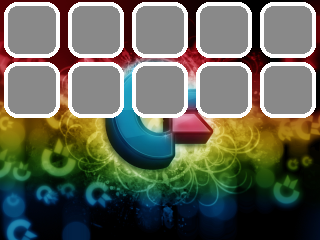
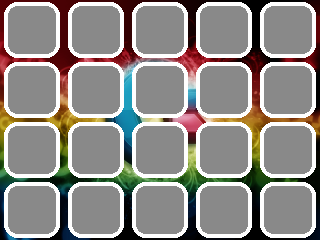
button to show / hide kbd, more soft buttons below kbd

diff --git a/source/arch/sdl/uibottom.c b/source/arch/sdl/uibottom.c
@@ -50,7 +50,7 @@ int uikbd_pos[4][4] = {
 };
 
 uikbd_key uikbd_keypos[] = {
-//	{   1,  1,  30,  20, 255,   0,   0,   0,  0,  "ToggleKB"},  // deactivated right now - must be 255
+	{   0,-10,  36,  10, 255,   0,   0,   0,  0,  "ToggleKB"},
 	//  x,  y,   w,   h, key, row, col, sticky, flags, name
 	// soft buttons
 	{   0,  0,  64,  60, 231,   0,   0,   0,  1,  "SButton1"},
@@ -63,6 +63,16 @@ uikbd_key uikbd_keypos[] = {
 	{ 128, 60,  64,  60, 238,   0,   0,   0,  1,  "SButton8"},
 	{ 192, 60,  64,  60, 239,   0,   0,   0,  1,  "SButton9"},
 	{ 256, 60,  64,  60, 240,   0,   0,   0,  1,  "SButton10"},
+	{   0,120,  64,  60, 241,   0,   0,   0,  1,  "SButton11"},
+	{  64,120,  64,  60, 242,   0,   0,   0,  1,  "SButton12"},
+	{ 128,120,  64,  60, 243,   0,   0,   0,  1,  "SButton13"},
+	{ 192,120,  64,  60, 244,   0,   0,   0,  1,  "SButton14"},
+	{ 256,120,  64,  60, 245,   0,   0,   0,  1,  "SButton15"},
+	{   0,180,  64,  60, 246,   0,   0,   0,  1,  "SButton16"},
+	{  64,180,  64,  60, 247,   0,   0,   0,  1,  "SButton17"},
+	{ 128,180,  64,  60, 248,   0,   0,   0,  1,  "SButton18"},
+	{ 192,180,  64,  60, 249,   0,   0,   0,  1,  "SButton19"},
+	{ 256,180,  64,  60, 250,   0,   0,   0,  1,  "SButton20"},
 	// F-Keys
 	{  81,  1,  30,  20, 133,   0,   4,   0,  0,  "F1"}, // F1
 	{ 111,  1,  30,  20, 137,   0,   4,   0,  0,  "F2"}, // F2
@@ -159,6 +169,9 @@ int uibottom_must_update_key = -1;
 static SDL_Surface *vice_img=NULL;
 static SDL_Surface *kbd_img=NULL;
 static SDL_Surface *calcsb_img=NULL;
+static SDL_Surface *twistyup_img=NULL;
+static SDL_Surface *twistydn_img=NULL;
+
 static int kb_x_pos = 0;
 static int kb_y_pos = 0;
 static int set_kb_y_pos = -10000;
@@ -180,7 +193,7 @@ static void pressKey(int key, int press) {
 	int x,y,w,h;
 
 	if (uikbd_keypos[key].flags==0) {
-		// negative the key for keyboard keys
+		// keyboard key - negative the key
 		x=uikbd_keypos[key].x + kb_x_pos;
 		y=uikbd_keypos[key].y + kb_y_pos;
 		w=uikbd_keypos[key].w;
@@ -196,11 +209,13 @@ static void pressKey(int key, int press) {
 			}
 		}
 	} else {
-		// blit the mask image or background image onto the screen
+		// soft button - blit the mask image or background image onto the screen
 		x=uikbd_keypos[key].x + bs_x_pos;
 		y=uikbd_keypos[key].y + bs_y_pos;
 		w=sbmask->w;
 		h=sbmask->h;
+		// set a clipping rectangle to exlude the keyboard
+		SDL_SetClipRect(s, &(SDL_Rect){.x = bs_x_pos, .y=bs_y_pos, .w=320, .h=kb_y_pos-240});
 		if (press) {
 			// blit the mask image
 			SDL_BlitSurface(sbmask, NULL, s, &(SDL_Rect){
@@ -210,6 +225,7 @@ static void pressKey(int key, int press) {
 			// blit the background + icon
 			sbutton_repaint(key);
 		}
+		SDL_SetClipRect(s, NULL);
 	}
 	if (!lock_updates && (sdl_menu_state || ui_emulation_is_paused())) SDL_UpdateRect(s, x,y,w,h);
 }
@@ -390,14 +406,12 @@ static void sbutton_update(int i) {
 // paint sbutton to screen - if i==-1 then repaint all
 static void sbutton_repaint(int i) {
 	// blit background image part
-//	SDL_SetClipRect(sdl_active_canvas->screen, &(SDL_Rect){.x = bs_x_pos, .y=bs_y_pos, .w=320, .h=480-kb_y_pos});
 	SDL_BlitSurface(calcsb_img,
 		i == -1 ? NULL : &(SDL_Rect){.x = uikbd_keypos[i].x, .y=uikbd_keypos[i].y, .w=uikbd_keypos[i].w, .h=uikbd_keypos[i].h},
 		sdl_active_canvas->screen,
 		&(SDL_Rect){
 			.x = bs_x_pos + (i==-1?0:uikbd_keypos[i].x),
 			.y = bs_y_pos + (i==-1?0:uikbd_keypos[i].y)});
-//	SDL_SetClipRect(sdl_active_canvas->screen, NULL);
 }
 
 // init calcsb_img and update all soft buttons 
@@ -410,6 +424,18 @@ static void sbuttons_recalc() {
 	}
 }
 
+// paint the right twisty at the right place
+void paint_twisty() {
+	SDL_BlitSurface(
+		kb_y_pos >= 480 ? twistyup_img: twistydn_img,
+		NULL,
+		sdl_active_canvas->screen,
+		&(SDL_Rect){
+			.x = kb_x_pos,
+			.y = kb_y_pos - twistyup_img->h}
+	);
+}
+
 // init bottom
 static int uibottom_isinit=0;
 static void uibottom_init() {
@@ -420,6 +446,8 @@ static void uibottom_init() {
 	sbmask=IMG_Load("romfs:/sbmask.png");
 	vice_img = IMG_Load("romfs:/vice.png");
 	kbd_img = IMG_Load("romfs:/keyboard.png");
+	twistyup_img = IMG_Load("romfs:/kbd_twistyup.png");
+	twistydn_img = IMG_Load("romfs:/kbd_twistydn.png");
 
 	// calc global vars
 	kb_x_pos = (s->w - uikbd_pos[0][2]) / 2;
@@ -477,6 +505,9 @@ void sdl_uibottom_draw(void)
 		updateKeys();
 		lock_updates=0;
 
+		// paint the twisty
+		paint_twisty();
+
 		// update screen
 		if (sdl_menu_state || ui_emulation_is_paused()) SDL_UpdateRect(s, bs_x_pos, bs_y_pos, 320, 240);
 
@@ -484,6 +515,9 @@ void sdl_uibottom_draw(void)
 
 	} else if (uibottom_must_update_key != -1) {
 		updateKey(uibottom_must_update_key);
+		if (uikbd_keypos[uibottom_must_update_key].flags == 1) {
+			paint_twisty();
+		}
 		uibottom_must_update_key=-1;
 	}
 	uistatusbar_draw();
@@ -512,15 +546,25 @@ int sdl_uibottom_mouseevent(SDL_Event *e) {
 				return 0; // do not further process the event
 			}
 			for (i = 0; uikbd_keypos[i].key != 0 ; ++i) {
-				if (x >= uikbd_keypos[i].x + kb_x_pos &&
-					x <  uikbd_keypos[i].x + uikbd_keypos[i].w + kb_x_pos &&
-					y >= uikbd_keypos[i].y + (uikbd_keypos[i].flags==0?kb_y_pos:bs_y_pos) &&
-					y <  uikbd_keypos[i].y + uikbd_keypos[i].h + (uikbd_keypos[i].flags==0?kb_y_pos:bs_y_pos)) break;
+				if (uikbd_keypos[i].flags == 1) {
+					// soft button
+					if (y >= kb_y_pos) continue; // ignore soft buttons below keyboard
+					if (x >= uikbd_keypos[i].x + bs_x_pos &&
+						x <  uikbd_keypos[i].x + uikbd_keypos[i].w + bs_x_pos &&
+						y >= uikbd_keypos[i].y + bs_y_pos &&
+						y <  uikbd_keypos[i].y + uikbd_keypos[i].h + bs_y_pos) break;
+				} else {
+					// keyboard button
+					if (x >= uikbd_keypos[i].x + kb_x_pos &&
+						x <  uikbd_keypos[i].x + uikbd_keypos[i].w + kb_x_pos &&
+						y >= uikbd_keypos[i].y + kb_y_pos &&
+						y <  uikbd_keypos[i].y + uikbd_keypos[i].h + kb_y_pos) break;
+				}
 			}
 			kb_activekey=i;
 		}
 		if (i != -1 && uikbd_keypos[i].key != 0) { // got a hit
-			if ((f=uikbd_keypos[i].sticky)>0) {	// sticky key!!
+			if ((f=uikbd_keypos[i].sticky)>0) {	// ... on a sticky key
 				if (e->button.type == SDL_MOUSEBUTTONDOWN) {
 					sticky = sticky ^ uikbd_keypos[i].sticky;
 					sdl_e.type = sticky & uikbd_keypos[i].sticky ? SDL_KEYDOWN : SDL_KEYUP;
@@ -528,13 +572,19 @@ int sdl_uibottom_mouseevent(SDL_Event *e) {
 					SDL_PushEvent(&sdl_e);
 					uibottom_must_redraw |= UIB_RECALC_KEYBOARD;
 				}
-			} else {
+			} else { // ... on a normal key
 				sdl_e.type = e->button.type == SDL_MOUSEBUTTONDOWN ? SDL_KEYDOWN : SDL_KEYUP;
 				sdl_e.key.keysym.unicode = sdl_e.key.keysym.sym = uikbd_keypos[i].key;
-				SDL_PushEvent(&sdl_e);
 				keypressed = (e->button.type == SDL_MOUSEBUTTONDOWN) ? i : -1;
 				uibottom_must_update_key=i;
 				uibottom_must_redraw |= UIB_KEYPRESS_ALL;
+
+				// toggle keyboard or push event
+				if (uikbd_keypos[i].key == 255) {
+					if (e->button.type == SDL_MOUSEBUTTONDOWN) toggle_keyboard();
+				} else {
+					SDL_PushEvent(&sdl_e);
+				}
 			}
 		}
 	}
@@ -542,14 +592,14 @@ int sdl_uibottom_mouseevent(SDL_Event *e) {
 }
 
 int toggle_keyboard_thread(void *data) {
-	if (kb_y_pos < 440) {
-		for (int i=kb_y_pos; i<=460; i+=10) {
+	if (kb_y_pos < 480) {
+		for (int i=kb_y_pos; i<=480; i+=10) {
 			set_kb_y_pos=i;
 			uibottom_must_redraw |= UIB_REPAINT_ALL;
 			SDL_Delay(30);
 		}
 	} else {
-		for (int i=kb_y_pos; i>=360; i-=10) {
+		for (int i=kb_y_pos; i>=480-uikbd_pos[0][3]; i-=10) {
 			set_kb_y_pos=i;
 			uibottom_must_redraw |= UIB_REPAINT_ALL;
 			SDL_Delay(30);

diff --git a/source/arch/shared/archdep_xdg.c b/source/arch/shared/archdep_xdg.c
@@ -25,7 +25,6 @@
  *  02111-1307  USA.
  *
  */
-
 #include "vice.h"
 #include <stdio.h>
 #include <stdlib.h>
@@ -37,48 +36,21 @@
 
 #include "archdep_xdg.h"
 
-static char *xdg_data_home = NULL;
-static char *xdg_config_home = NULL;
-static char *xdg_cache_home = NULL;
+static char *xdg_data_home = "/3ds/vice3ds";
+static char *xdg_config_home = "/3ds/vice3ds/config";
+static char *xdg_cache_home = "/3ds/vice3ds/cache";
 
-/** \brief  Get XDG_DATA_HOME
- *
- * Either returns the value of $XDG_DATA_HOME or the default $HOME/.local/share
- *
- * \return  heap-allocated string, free with lib_free()
- */
 char *archdep_xdg_data_home(void)
 {
-    if (xdg_data_home == NULL)
-		xdg_data_home = lib_stralloc("/3ds/vice3ds");
 	return xdg_data_home;
 }
 
-
-/** \brief  Get XDG_CONFIG_HOME
- *
- * Either returns the value of $XDG_CONFIG_HOME or the default $HOME/.config
- *
- * \return  heap-allocated string, free with lib_free()
- */
 char *archdep_xdg_config_home(void)
 {
-    if (xdg_config_home == NULL)
-		xdg_config_home = lib_stralloc("/3ds/vice3ds/config");
-//		xdg_config_home = lib_stralloc("romfs:");
 	return xdg_config_home;
 }
 
-
-/** \brief  Get XDG_CACHE_HOME
- *
- * Either returns the value of $XDG_CACHE_HOME or the default $HOME/.cache
- *
- * \return  heap-allocated string, free with lib_free()
- */
 char *archdep_xdg_cache_home(void)
 {
-    if (xdg_cache_home == NULL)
-		xdg_cache_home = lib_stralloc("/3ds/vice3ds/cache");
 	return xdg_cache_home;
 }

diff --git a/source/arch/sdl/kbd.c b/source/arch/sdl/kbd.c
@@ -482,11 +482,6 @@ ui_menu_action_t sdlkbd_press(SDLKey key, SDLMod mod)
 	if (key == joykeys_autofire[0]) start_autofire(0);
 	if (key == joykeys_autofire[1]) start_autofire(1);
 
-	// toggle keyboard
-	if (key == 255) { // toggle keyboard
-		toggle_keyboard();
-	}
-
     if ((int)(key) == sdl_ui_menukeys[0]) {
         sdl_ui_activate();
         return retval;

diff --git a/source/arch/sdl/uipoll.c b/source/arch/sdl/uipoll.c
@@ -128,6 +128,9 @@ SDL_Event sdl_ui_poll_event(const char *what, const char *target, int options, i
         }
         SDL_Delay(20);
 
+		// update bottom screen if needed
+		if (uibottom_must_redraw) sdl_uibottom_draw();
+
         if ((timeout > 0) && (++count == 1000 / 20)) {
             count = 0;
             if (--timeout == 0) {

diff --git a/source/arch/sdl/menu_snapshot.c b/source/arch/sdl/menu_snapshot.c
@@ -119,7 +119,6 @@ static void fill_quick_fname()
 	char *s=archdep_xdg_data_home();
 	quick_fname=lib_malloc(strlen(s)+strlen(fname)+2);
 	sprintf(quick_fname,"%s/%s",s,fname);
-	lib_free(s);
 }
 
 static UI_MENU_CALLBACK(quickload_snapshot_callback)
